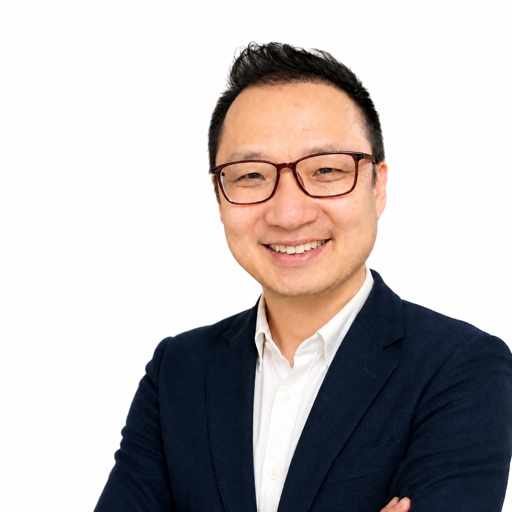
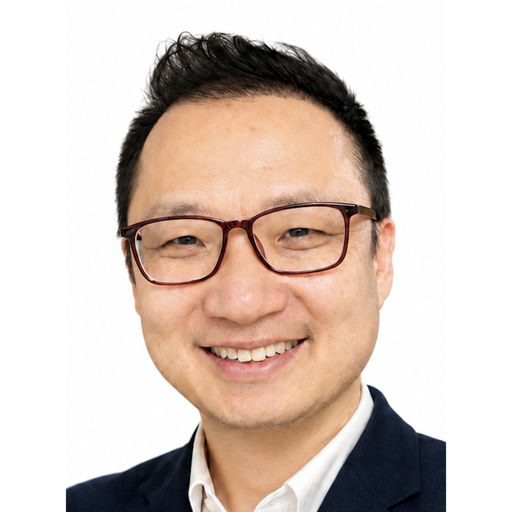
prep intro - 5 - profile img

diff --git a/src/app/prep/page.tsx b/src/app/prep/page.tsx
@@ -126,8 +126,9 @@ export default function PrepPage() {
               {teacher.role}
             </span>
             <div className="flex items-center gap-5">
-              {/* 원형 아바타 — 앱 공통 규칙대로 relative 래퍼가 크기를 잡고 Image는 fill + object-cover. */}
-              <div className="relative size-24 shrink-0 overflow-hidden rounded-full md:size-28">
+              {/* 원형 아바타 — 앱 공통 규칙대로 relative 래퍼가 크기를 잡고 Image는 fill + object-cover.
+                  ⚠ 사진 배경이 흰색이라 흰 카드 위에서는 원의 경계가 사라져 얼굴이 한쪽으로 쏠려 보인다 → ring으로 테두리를 준다. */}
+              <div className="ring-rule relative size-24 shrink-0 overflow-hidden rounded-full ring-1 md:size-28">
                 <Image src={teacher.photo} alt={`${teacher.name} 강사`} fill sizes="112px" className="object-cover" />
               </div>
               <div className="min-w-0">

diff --git a/docs/ui.md b/docs/ui.md
@@ -7,7 +7,10 @@
 **스타일링** Tailwind v4: `globals.css`의 `@import` + `@theme inline`(별도 config 없음). `@custom-variant dark`. 토큰 세 그룹: (1) shadcn 색상/`--radius-*`(OKLch), (2) **마케팅 시맨틱 색**: `--color-brand`(#ff4757, 인증/강조 빨강), `--color-brand-blue`(#2563eb, **회원가입 동선 전용**), `--color-ink`(#1a1a1a), `--color-ink-soft`(#333), `--color-surface`(#f8f8f8), `--color-muted-fg`(#666), `--color-muted-fg-faint`(#999), `--color-rule`(#eee), `--color-rule-faint`(#ddd), (3) **project0607 플랫폼 팔레트(블루→핑크)**: `--color-accent-blue`(#6b8ff0)·`--color-accent-blue-soft`(#eef1fd)·`--color-accent-blue-ink`(#4a6bd4, 링크/탭 강조), `--color-cta`(#1a4fa0, **네이비 — 범용 CTA**: 수강신청·강사/센터/유튜브 admin 액션 버튼 등), `--color-progress`(#b22222). + `@layer utilities`의 **`.bg-brand-gradient`/`.text-brand-gradient`**(블루→핑크 135deg, 히어로 "세계로"·섹션 라벨·탭 active·로고). **새 코드는 하드코딩 hex 금지, 토큰 클래스 사용**(예외 단발성: #E05A6A 신청박스, #ffc107/#F5A623 별점, #aaa 등). 다크모드 미구현. `@layer base`: 활성 버튼 `cursor:pointer` 전역 + smooth 스크롤은 `html[data-scroll-behavior="smooth"]`에만 적용(layout.tsx `<html data-scroll-behavior="smooth">`). **⚠ CSS로 `html{scroll-behavior:smooth}` 직접 선언 금지** — 라우트 네비게이션 시 Next가 끄지 못해 페이지 이동 후 최상단 점프 실패(교재 등 상단 가림). data 속성으로 선언해야 Next가 전환 중 일시 비활성화.
 
 **shadcn/ui** `components.json`(`base-nova`/`neutral`/lucide/RSC). UI: `src/components/ui/{button,card,input,label,textarea,alert-dialog,calendar,popover,select,sonner,tooltip}.tsx`. `select.tsx`는 미사용(tracked). **`tooltip.tsx`**(base-ui `Tooltip`)는 현재 **`RoomsManager` 아이콘 버튼 3종(공개토글·수정·삭제) 전용** — `TooltipTrigger`는 **기본 렌더 요소가 `<button>`**이라 `type`/`onClick`/`disabled`/`aria-*`를 그대로 전달하면 되고 별도 래핑이 필요 없다. `TooltipProvider`는 루트 layout이 아니라 **`RoomsManager` 내부에서 로컬로** 감쌌다(다른 화면으로 퍼지면 layout으로 올릴 것). **`sonner.tsx`=토스트**(라이브러리 `sonner`, next-themes 없이 `theme="light"` 고정 래퍼 — `position="top-center"` `richColors`; `layout.tsx`에 전역 `<Toaster/>` 마운트, 강사 폼 등에서 `toast.success/error`). `calendar.tsx`는 **수강신청 위저드 시작일 선택**(`EnrollWizard` step 2) + **내 강의실 과정 달력**(`ClassroomList`) + **admin 수업 상세 달력**(`ClassesManager`) 3곳에서 사용(`date-fns`(^4) + `react-day-picker`(^10), 로케일 `ko`/`enUS`), `popover.tsx`는 미사용. `cn()`은 `src/lib/utils.ts`(clsx+tailwind-merge), 항상 사용. 아이콘 `lucide-react`, 프리미티브 `@base-ui/react`, 애니메이션 `tw-animate-css`.
+
 - **Button variant**: shadcn 기본 + 추가 4종 — `brand`(빨강 primary), `brand-blue`(파랑, **회원가입 동선 전용**: SignupForm 제출·AlertDialogAction "보내기"), `brand-inverse`(흰, 빨강 배경 위), `kakao`(#FEE500/#191919, `KakaoButton` 전용, 고정 hex). `buttonVariants`로 `<a>`에도 적용. (네이비 CTA는 variant 아닌 `bg-cta` 클래스 — 수강신청·admin 액션 등.)
 - ⚠ **base-nova**: `AlertDialogAction`은 `Close`로 안 감싸져 **클릭해도 모달 자동 안 닫힘** → onClick에서 `setOpen(false)` 또는 controlled 사용. `AlertDialogCancel`은 정상.
 
 **`SectionCard`** (`src/components/SectionCard.tsx`): 카드 div wrapper. variant 3종 — `accent-left`(`border-l-[6px] border-brand bg-surface`), `outline`(`border border-rule bg-surface`, 현재 전자책 Unit 목록에서 사용), `plain`(`bg-surface`). `rounded/p`는 호출 측 className. shadcn `Card`(슬롯)는 별개.
+
+**이미지(`next/image`)**: 자산은 `public/images/`, 호출은 **`relative` 래퍼 + `fill` + `sizes` + `object-cover`**가 앱 공통 규칙(장식 이미지는 `alt=""`, above-the-fold 히어로만 `priority`). 원형 아바타는 래퍼에 `size-* overflow-hidden rounded-full`, 배경이 흰 사진이면 흰 카드 위에서 원 경계가 사라지므로 `ring-1 ring-rule`을 더한다. **SVG는 `next/image`로 서빙하지 않는다** — `images.dangerouslyAllowSVG`가 필요해서, 일러스트는 **JSX 인라인 SVG 컴포넌트**로 만든다(`src/components/prep/PrepHeroArt.tsx`·`/friending` 히어로 선례). ⚠ **같은 파일명으로 이미지를 교체하면 화면이 안 바뀐다** — Next 16 dev는 최적화 결과를 **`.next/dev/cache/images/`**(Next 15까지의 `.next/cache/images`가 **아님**)에 **TTL 4시간(파일명에 `14400`)**으로 저장하고, **dev 서버를 재시작해도 디스크 캐시가 살아남아 `X-Nextjs-Cache: HIT`로 옛 이미지를 계속 돌려준다**(실제로 사진 교체 후 한참 헤맴). 해결은 **`rm -rf .next/dev/cache/images`** + 브라우저 하드 리프레시. 확인은 `curl -sD - -o /dev/null "http://localhost:3000/_next/image?url=%2Fimages%2F<파일>&w=256&q=75" | grep -i x-nextjs-cache`(MISS면 새로 최적화된 것). macOS에서 자산 리사이즈·크롭은 `sips`(`-Z 512` 축소 · `-c H W --cropOffset Y X` 오프셋 크롭 · `-p H W --padColor FFFFFF` 정사각 패딩)로 충분하다.
